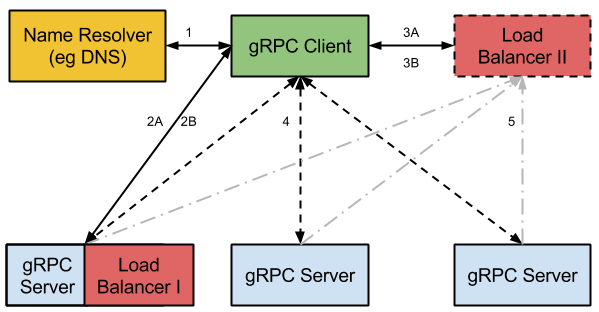
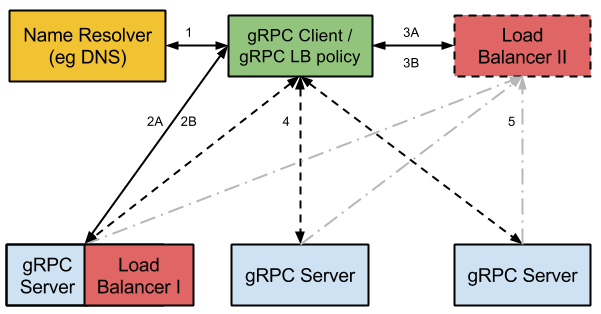
Small tweaks in text and diagram
Former-commit-id: 26b60607297ff5caf01c72ba31f70b2641fd9198

diff --git a/doc/load-balancing.md b/doc/load-balancing.md
@@ -89,26 +89,28 @@ servers.
    client config.
 2. The gRPC client connects to a gRPC Server.
    1. If the name resolution has hinted that the endpoint is a load balancer,
-      the client will attempt to open a stream to the load balancer service. The
-      server may respond in only one of the following ways.
+      the client's gRPC LB policy will attempt to open a stream to the load
+      balancer service. The server may respond in only one of the following
+      ways.
       1. `status::UNIMPLEMENTED`. There is no loadbalancing in use. The client
          call will fail.
-      1. "I am a Load Balancer and here is the server list." (Goto Step 4.)
-      1. "Please contact Load Balancer X" (See Step 3.) The client will close
+      2. "I am a Load Balancer and here is the server list." (Goto Step 4.)
+      3. "Please contact Load Balancer X" (See Step 3.) The client will close
          this connection and cancel the stream.
-      1. If the server fails to respond, the client will wait for some timeout
+      4. If the server fails to respond, the client will wait for some timeout
          and then re-resolve the name (process to Step 1 above).
-   1. If the name resolution has not hinted that the endpoint is a load
+   2. If the name resolution has not hinted that the endpoint is a load
       balancer, the client connects directly to the service it wants to talk to.
-3. The gRPC client opens a separate connection to the Load Balancer. If this
-   fails, it will go back to step 1 and try another address.
+3. The gRPC client's gRPC LB policy opens a separate connection to the Load
+   Balancer. If this fails, it will go back to step 1 and try another address.
    1. During channel initialization to the Load Balancer, the client will
       attempt to open a stream to the Load Balancer service.
-   1. The load balancer will return a server list to the gRPC client.
-      Optional: The load balancer will also open channels to the gRPC servers if
-      load reporting is needed.
+   2. The Load Balancer will return a server list to the gRPC client. If the
+      server list is empty, the call will wait until a non-empty one is
+      received. Optional: The Load Balancer will also open channels to the gRPC
+      servers if load reporting is needed.
 4. The gRPC client will send RPCs to the gRPC servers contained in the server
-   list from the load balancer.
+   list from the Load Balancer.
 5. Optional: The gRPC servers may periodically report load to the Load Balancer.
 
 ## Client
